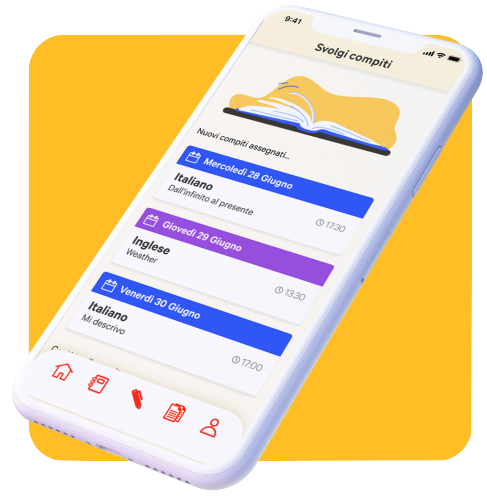
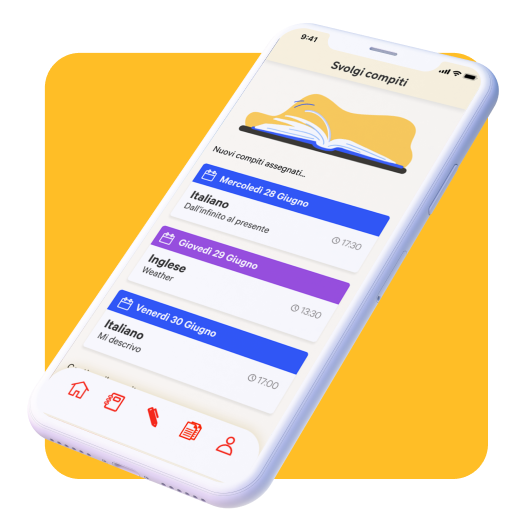
mockup update

Changed region(s): [[0.0308, 0.0, 1.0, 0.996]]

diff --git a/index.html b/index.html
@@ -232,7 +232,7 @@ data-src="assets/gallery/svg/ogg.svg" uk-img
   <div class="padd" data-aos="fade-up" data-aos-delay="10" data-aos-duration="1100" >
     <div class="uk-card uk-card-default uk-card-large  uk-grid-collapse uk-child-width-1-2@s  ml-5 mr-5" uk-grid style="border-radius:20px;">
       <div class="d-flex justify-content-center">
-        <img src="assets/gallery/svg/telefono1.png" alt="" class="img-prima">
+        <img src="assets/gallery/svg/pc.png" alt="" class="img-prima">
         <!-- <div class="embed-responsive embed-responsive-16by9">
           <iframe class="embed-responsive-item" src="assets/gallery/redpen_trasparente.mp4"></iframe>
         </div> -->
@@ -286,20 +286,16 @@ data-src="assets/gallery/svg/ogg.svg" uk-img
          <div class="padd2" data-aos="fade-up" data-aos-delay="10" data-aos-duration="1100">
            <div class="uk-card uk-card-default uk-card-large  uk-grid-collapse uk-child-width-1-2@s  ml-5 mr-5 " uk-grid style="border-radius:20px;">
              <div class="d-flex justify-content-center">
-               <img src="assets/gallery/svg/telefono1.png" alt="" class="img-prima">
+               <img src="assets/gallery/svg/tablet1.png" alt="" class="img-prima1">
 
              </div>
              <div>
                <div class="uk-card-body mob-align2">
                  <p>
-                   <span class="forwho">PER FAMIGLIE</span> <br />
+                   <span class="forwho">PER INSEGNANTI</span> <br />
                    <span class="title1">Segui l’apprendimento
                      del bambino</span> <br /> <br />
-                   <span class="text-card">Guarda le attività didattiche
-                     per aiutare il bambino a stare al passo
-                     con l’apprendimento da casa.
-                     Segui tutti i suoi progressi e rimani
-                     a stretto contatto con l’Insegnante
+                   <span class="text-card">Tieni sotto controllo l’andamento degli alunni. Valuta i compiti corretti così da avere un andamento nel tempo e poter intervenire in situazioni complicate o di difficoltà.
                    </span>
                  </p>
                </div>

diff --git a/style.css b/style.css
@@ -356,7 +356,7 @@ font-size: 1.2rem;
 }
 .img-prima1{
   height:500px;
-  transform: scale(1.6);
+  transform: scale(0.9);
 }
 .margin-card{
   margin-right:10rem;
@@ -458,7 +458,8 @@ font-size: 1.2rem;
 
   }
   .img-prima1{
-    height:200px;
+    height:250px;
+    transform: scale(0.9);
 
   }
 .margin-card{
